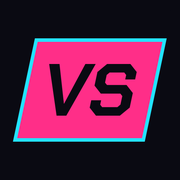
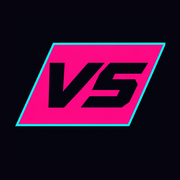
Add the artwork Fodz chose (Higgsfield)
Logo #1 becomes the favicon and app icons; covers #4, #7, #8 for Lexi
Duel, Neon Merge and Rift Runner; key art behind the social sharing
image; dark backgrounds for each original game. Full-size sources kept
in assets-src/.

Claude-Session: https://claude.ai/code/session_01TmzzHLMWuwSS6cMemQgfTX

diff --git a/assets-src/README.md b/assets-src/README.md
@@ -1,0 +1,13 @@
+# Artwork sources
+
+Full-size originals of the artwork Fodz chose, generated with Higgsfield (GPT Image 2.5) on 2026-10-20.
+The site uses resized copies:
+
+| Source | Used as |
+|---|---|
+| `higgsfield/logo-vs.png` | `public/favicon.ico`, `public/icon-*.png`, `public/apple-touch-icon.png` |
+| `higgsfield/key-art.png` | background of `public/images/og-default.jpg` (social sharing image) |
+| `higgsfield/cover-*.png` | `public/images/originals/<game>.webp` (game covers) |
+| `higgsfield/bg-*.png` | `public/originals/<game>/assets/bg.webp` (in-game backgrounds) |
+
+The header logo is drawn in CSS so it can follow each skin.
